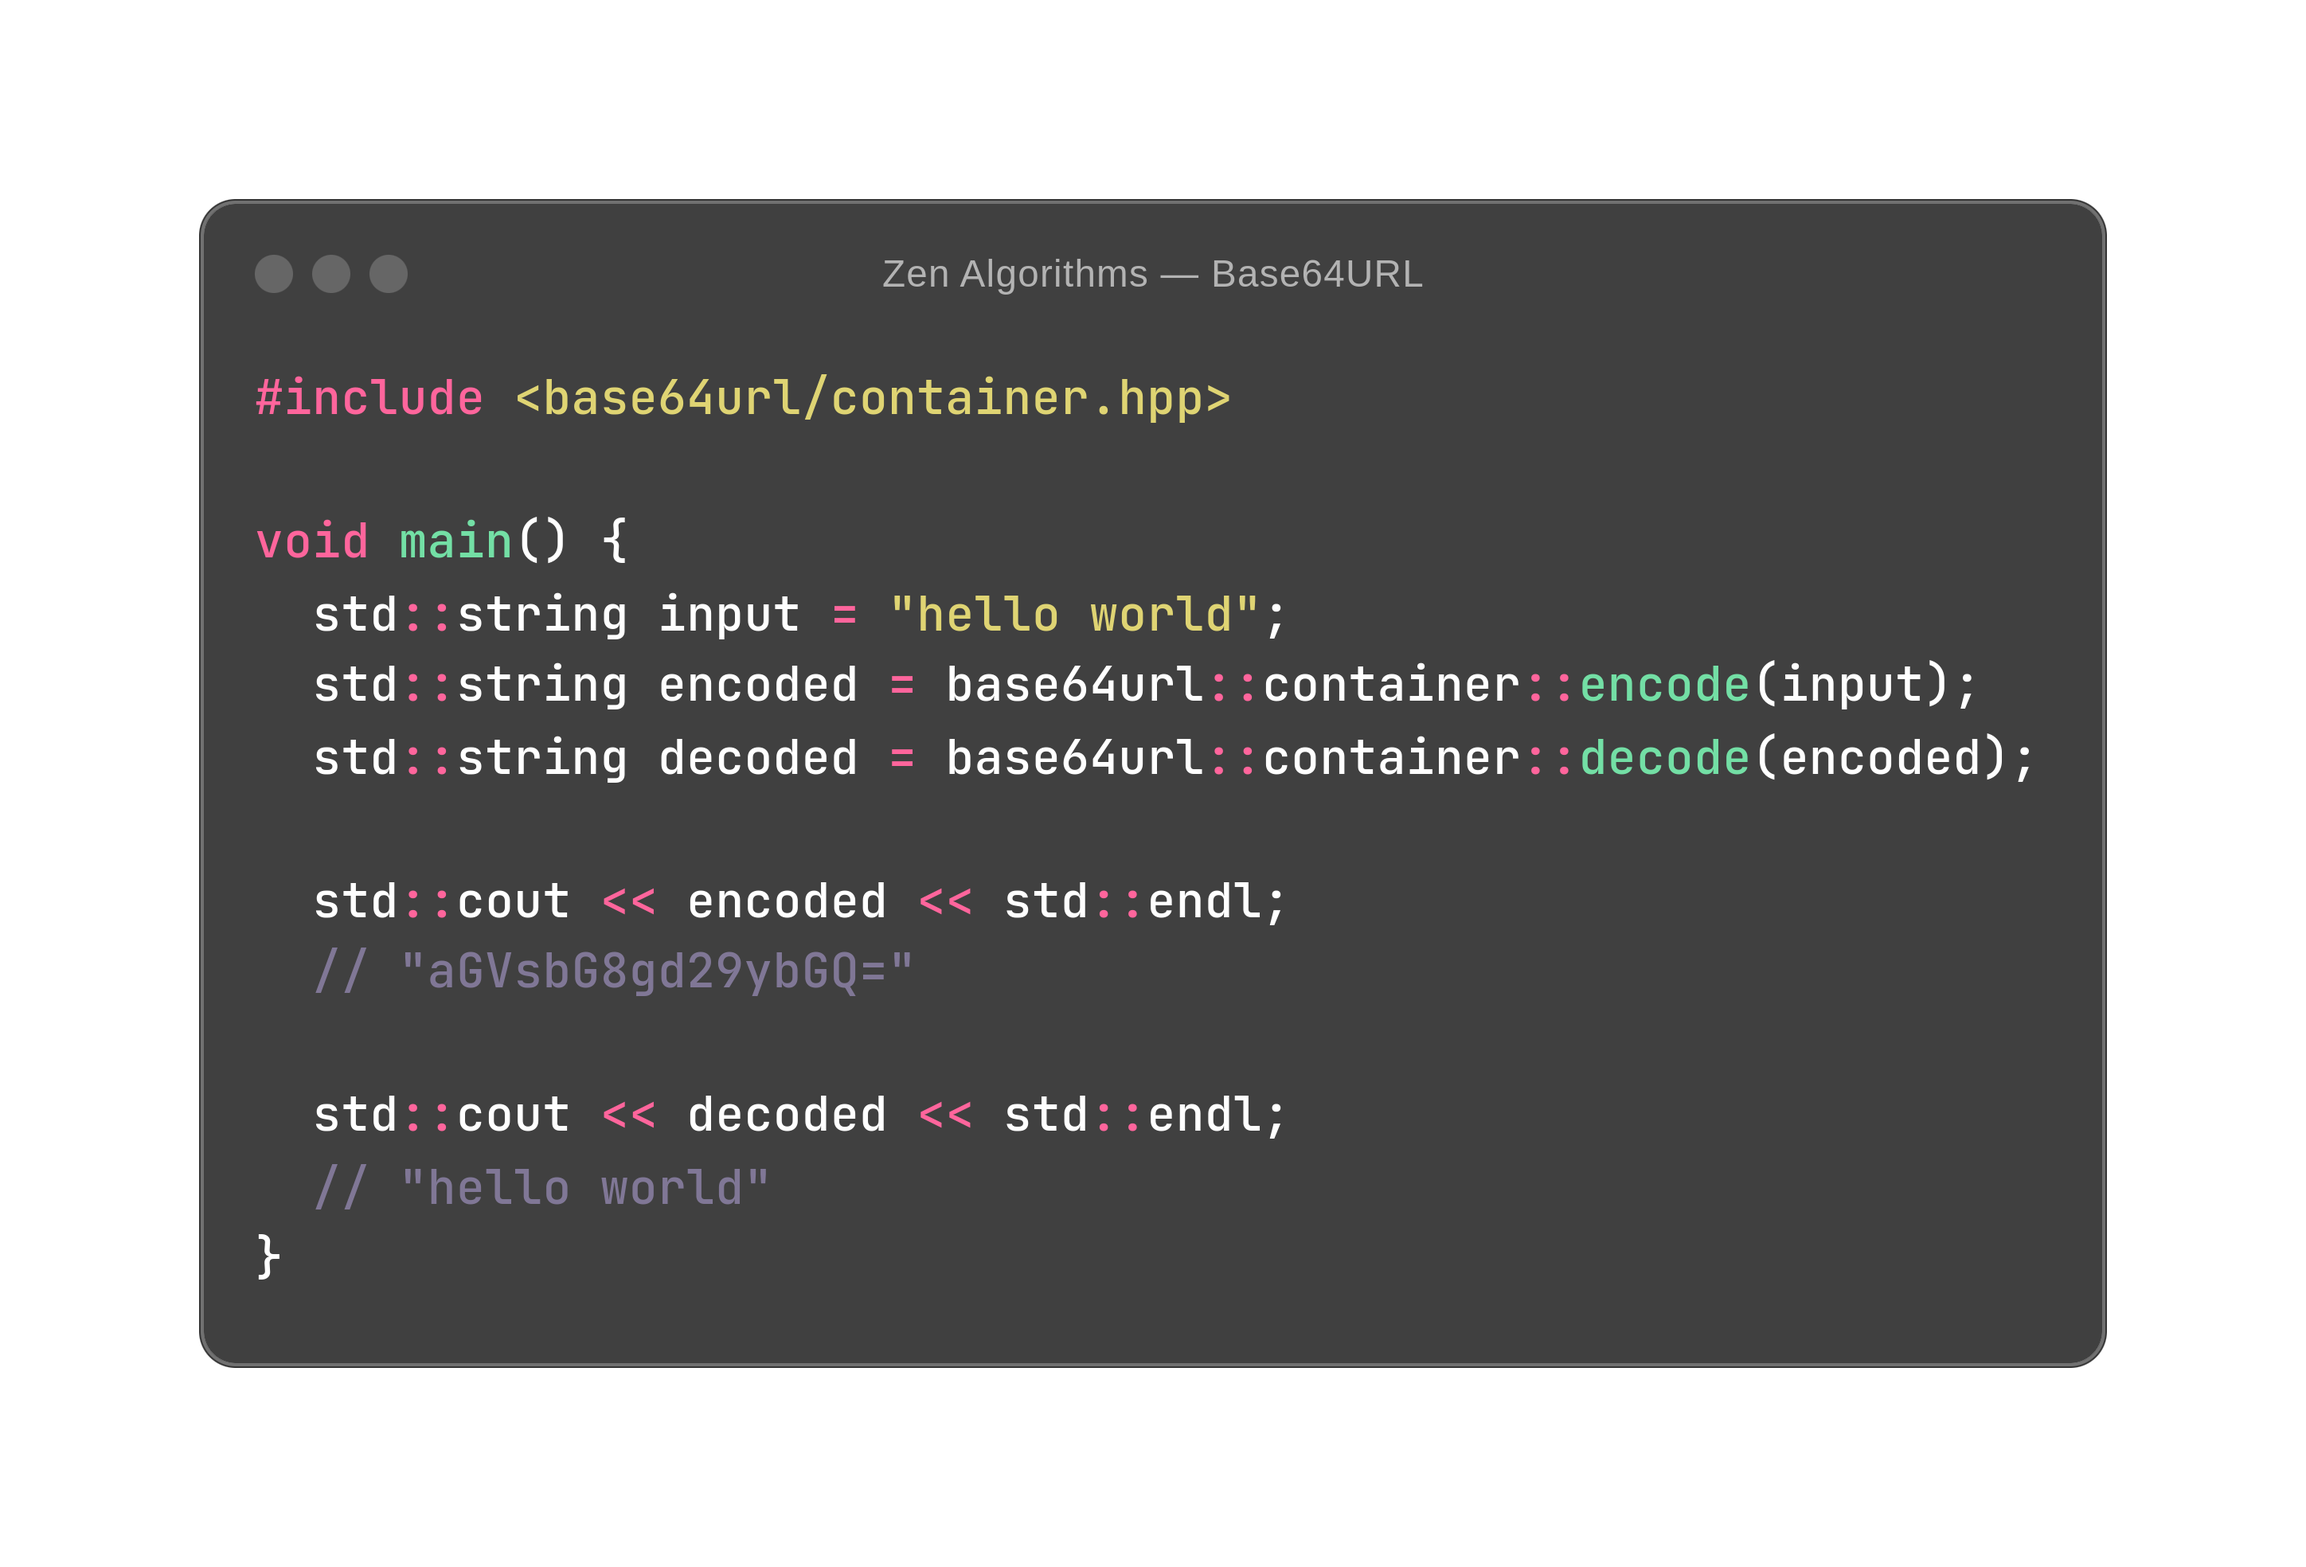
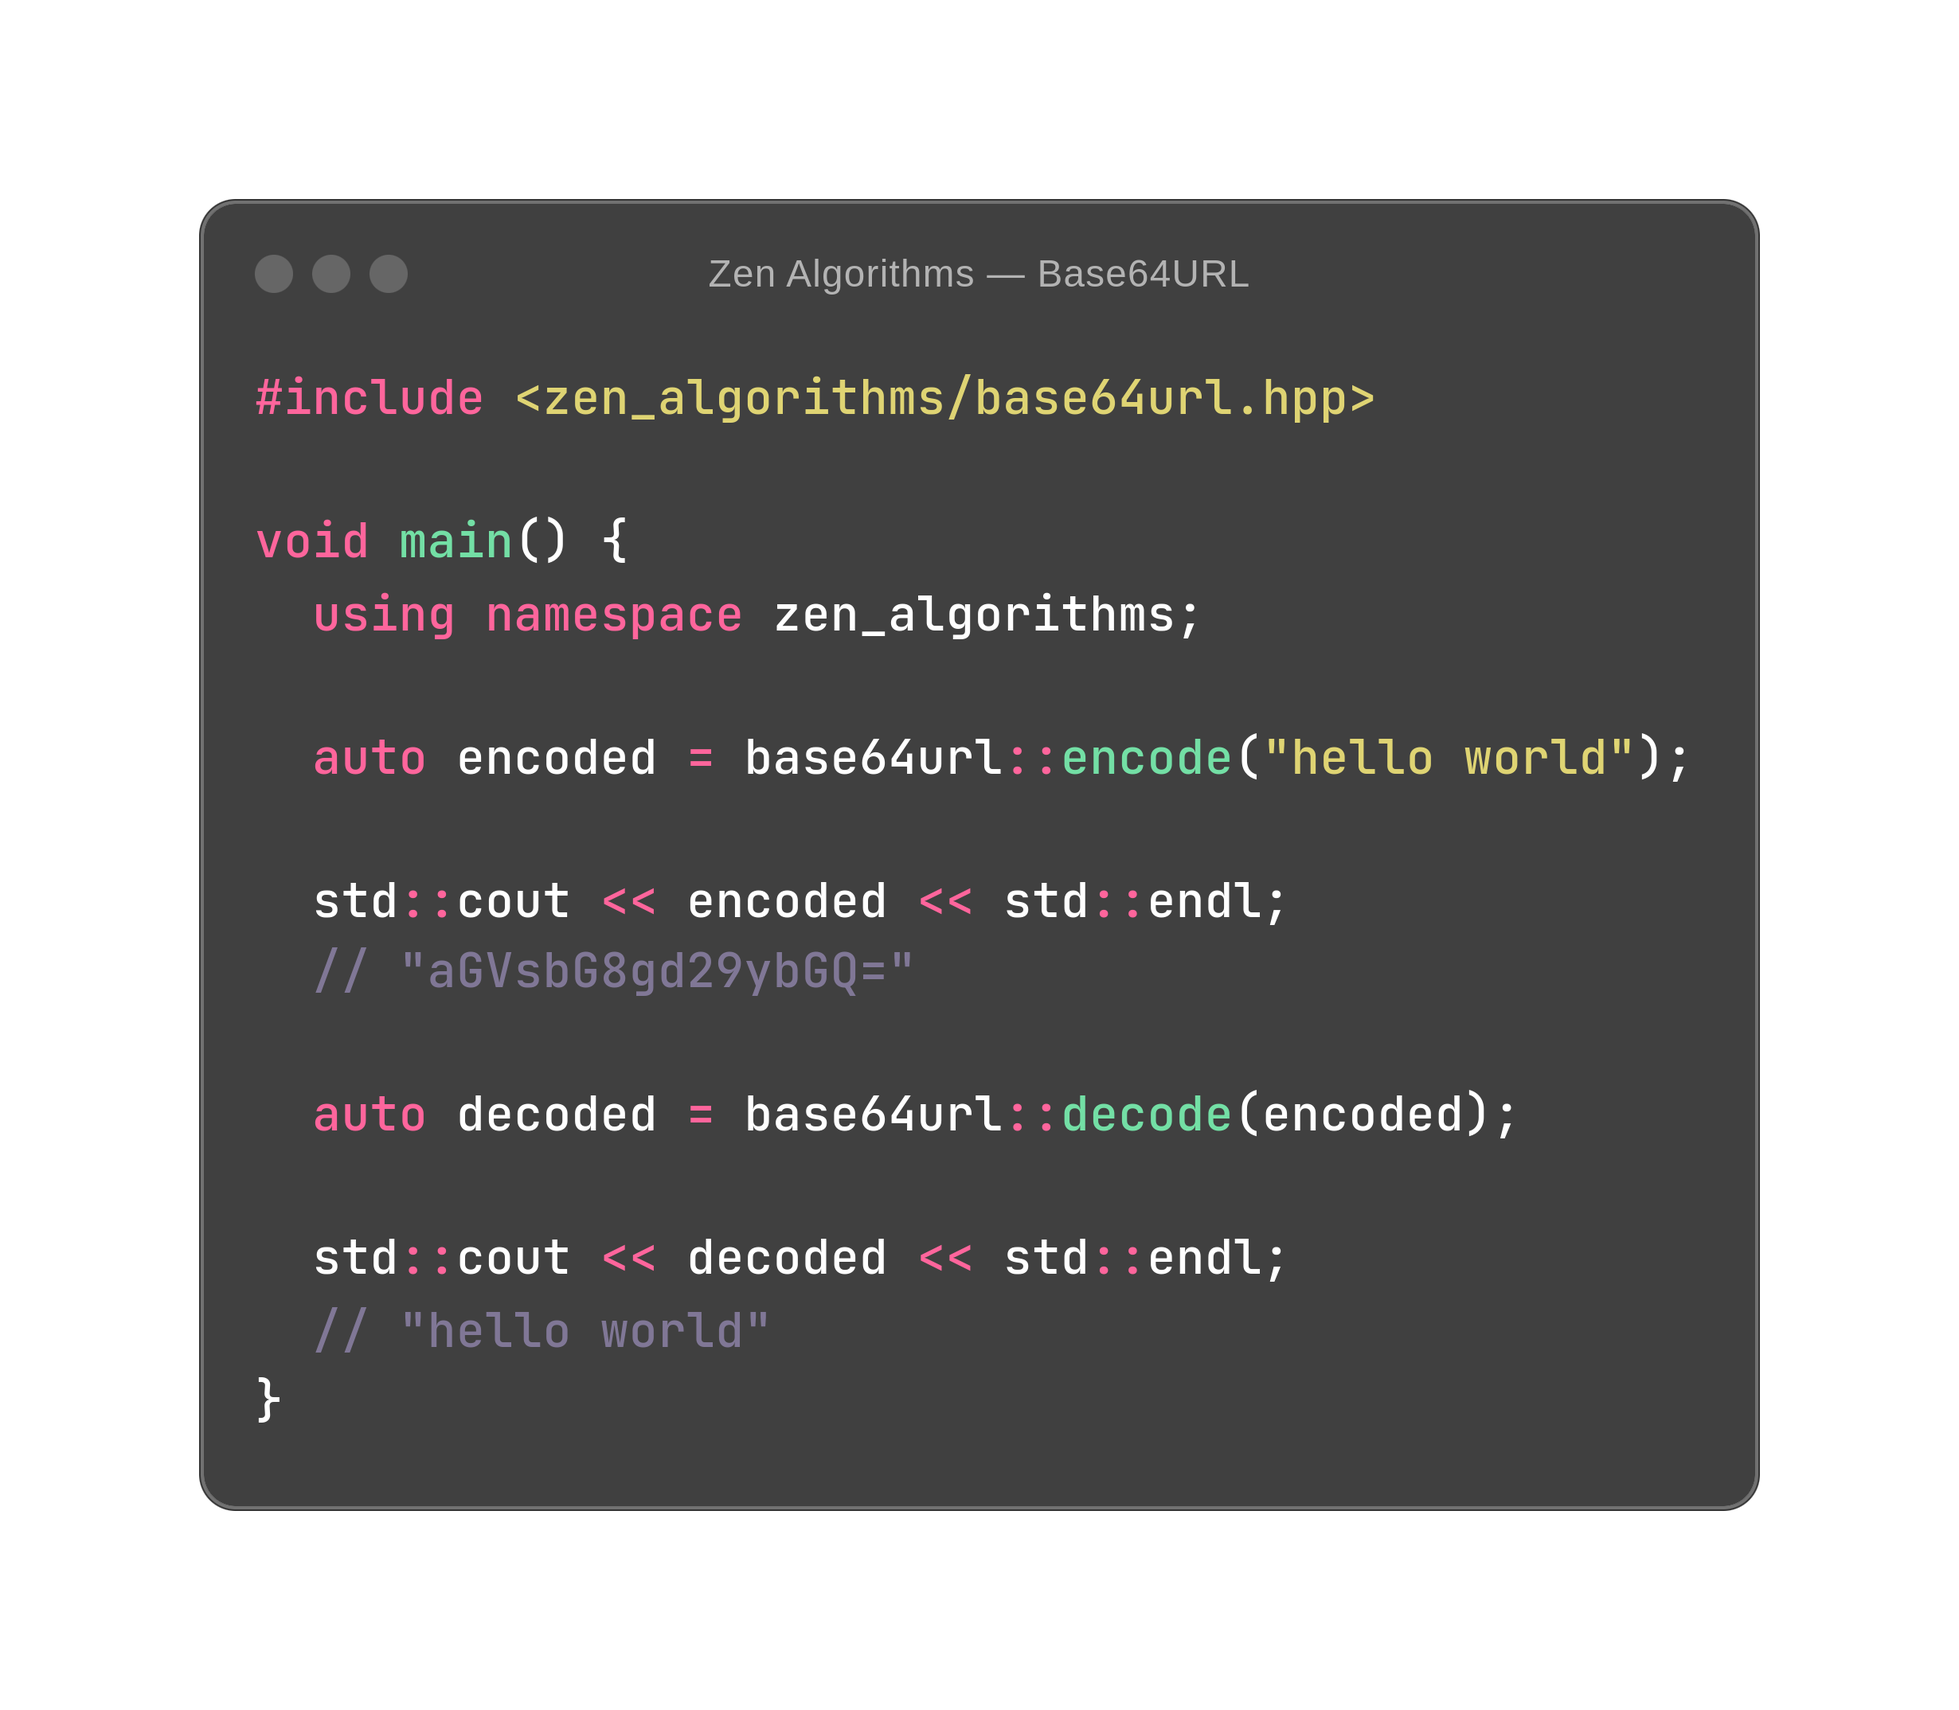
Performance improvements and namespace.

Changed region(s): [[0.0618, 0.093, 0.9268, 0.8989], [0.5561, 0.6199, 0.7724, 0.6819], [0.587, 0.7129, 0.6488, 0.7439]]

diff --git a/lib/headers/zen_algorithms/base64url.hpp b/lib/headers/zen_algorithms/base64url.hpp
@@ -1,0 +1,61 @@
+#pragma once
+
+#include <string>
+#include <map>
+
+namespace zen_algorithms::base64url {
+	static const std::string chars =
+			"ABCDEFGHIJKLMNOPQRSTUVWXYZ"
+			"abcdefghijklmnopqrstuvwxyz"
+			"0123456789-_";
+
+	static std::map<char, int> chars_map = {
+		{'A', 0}, {'B', 1}, {'C', 2}, {'D', 3}, {'E', 4}, {'F', 5}, {'G', 6}, {'H', 7}, {'I', 8}, {'J', 9},
+		{'K', 10}, {'L', 11}, {'M', 12}, {'N', 13}, {'O', 14}, {'P', 15}, {'Q', 16}, {'R', 17}, {'S', 18}, {'T', 19},
+		{'U', 20}, {'V', 21}, {'W', 22}, {'X', 23}, {'Y', 24}, {'Z', 25},
+		{'a', 26}, {'b', 27}, {'c', 28}, {'d', 29}, {'e', 30}, {'f', 31}, {'g', 32}, {'h', 33}, {'i', 34}, {'j', 35},
+		{'k', 36}, {'l', 37}, {'m', 38}, {'n', 39}, {'o', 40}, {'p', 41}, {'q', 42}, {'r', 43}, {'s', 44}, {'t', 45},
+		{'u', 46}, {'v', 47}, {'w', 48}, {'x', 49}, {'y', 50}, {'z', 51},
+		{'0', 52}, {'1', 53}, {'2', 54}, {'3', 55}, {'4', 56}, {'5', 57}, {'6', 58}, {'7', 59}, {'8', 60}, {'9', 61},
+		{'-', 62}, {'_', 63}
+	};
+
+	static std::string encode(const std::string & input, bool padding = true) {
+		std::string output;
+		int value = 0;
+		int value_b = -6;
+
+		for (const unsigned char character: input) {
+			value = (value << 8) + character;
+			value_b += 8;
+			while (value_b >= 0) {
+				output.push_back(chars[(value >> value_b) & 0x3F]);
+				value_b -= 6;
+			}
+		}
+		if (value_b > -6)
+			output.push_back(chars[((value << 8) >> (value_b + 8)) & 0x3F]);
+
+		if (padding)
+			while (output.size() % 4 != 0)
+				output.push_back('=');
+
+		return output;
+	}
+
+	static std::string decode(const std::string & input) {
+		std::string output;
+		int value = 0;
+		int value_b = -8;
+		for (const char character: input) {
+			if (character == '=') break;
+			value = (value << 6) + chars_map[character];
+			value_b += 6;
+			if (value_b >= 0) {
+				output.push_back(static_cast<char>((value >> value_b) & 0xFF));
+				value_b -= 8;
+			}
+		}
+		return output;
+	}
+}

diff --git a/tests/implementation_test.cc b/tests/implementation_test.cc
@@ -1,23 +1,23 @@
 #include <gtest/gtest.h>
-#include <base64url/container.hpp>
+#include <zen_algorithms/base64url.hpp>
 
 TEST(Base64URL, Encode) {
-    using namespace base64url;
+    using namespace zen_algorithms;
     const std::string input = "hello world";
-    const std::string output = container::encode(input);
+    const std::string output = base64url::encode(input);
     ASSERT_EQ(output, "aGVsbG8gd29ybGQ=");
 
-    const std::string output_no_padding = container::encode(input, false);
+    const std::string output_no_padding = base64url::encode(input, false);
     ASSERT_EQ(output_no_padding, "aGVsbG8gd29ybGQ");
 }
 
 TEST(Base64URL, Decode) {
-    using namespace base64url;
+    using namespace zen_algorithms;
     const std::string input = "aGVsbG8gd29ybGQ=";
-    const std::string output = container::decode(input);
+    const std::string output = base64url::decode(input);
     ASSERT_EQ(output, "hello world");
 
     const std::string input_no_padding = "aGVsbG8gd29ybGQ";
-    const std::string output_no_padding = container::decode(input_no_padding);
+    const std::string output_no_padding = base64url::decode(input_no_padding);
     ASSERT_EQ(output_no_padding, "hello world");
 }

diff --git a/lib/sources/base64url.cpp b/lib/sources/base64url.cpp
@@ -1,0 +1,3 @@
+#include <zen_algorithms/base64url.hpp>
+
+namespace zen_algorithms::base64url { }
